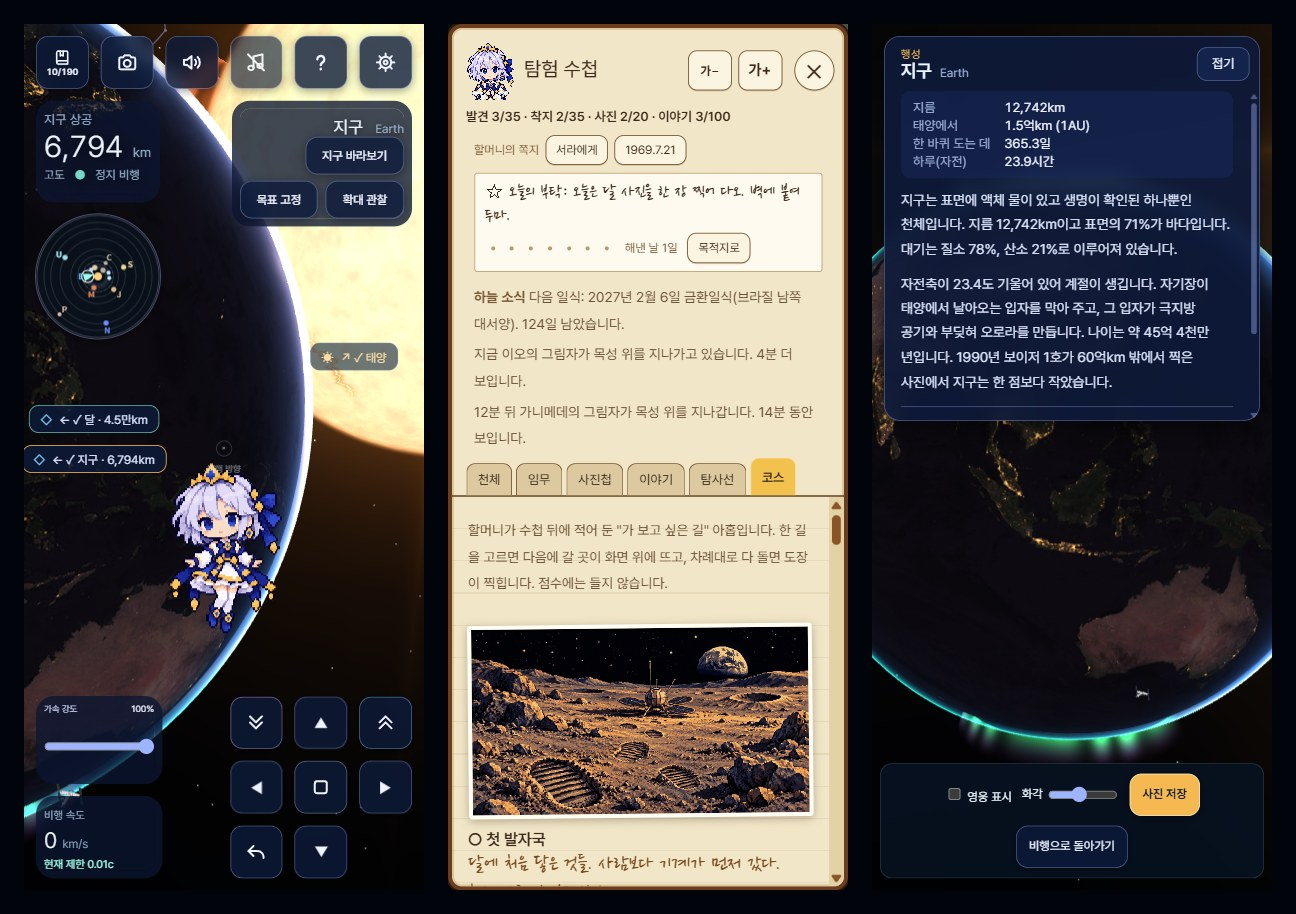
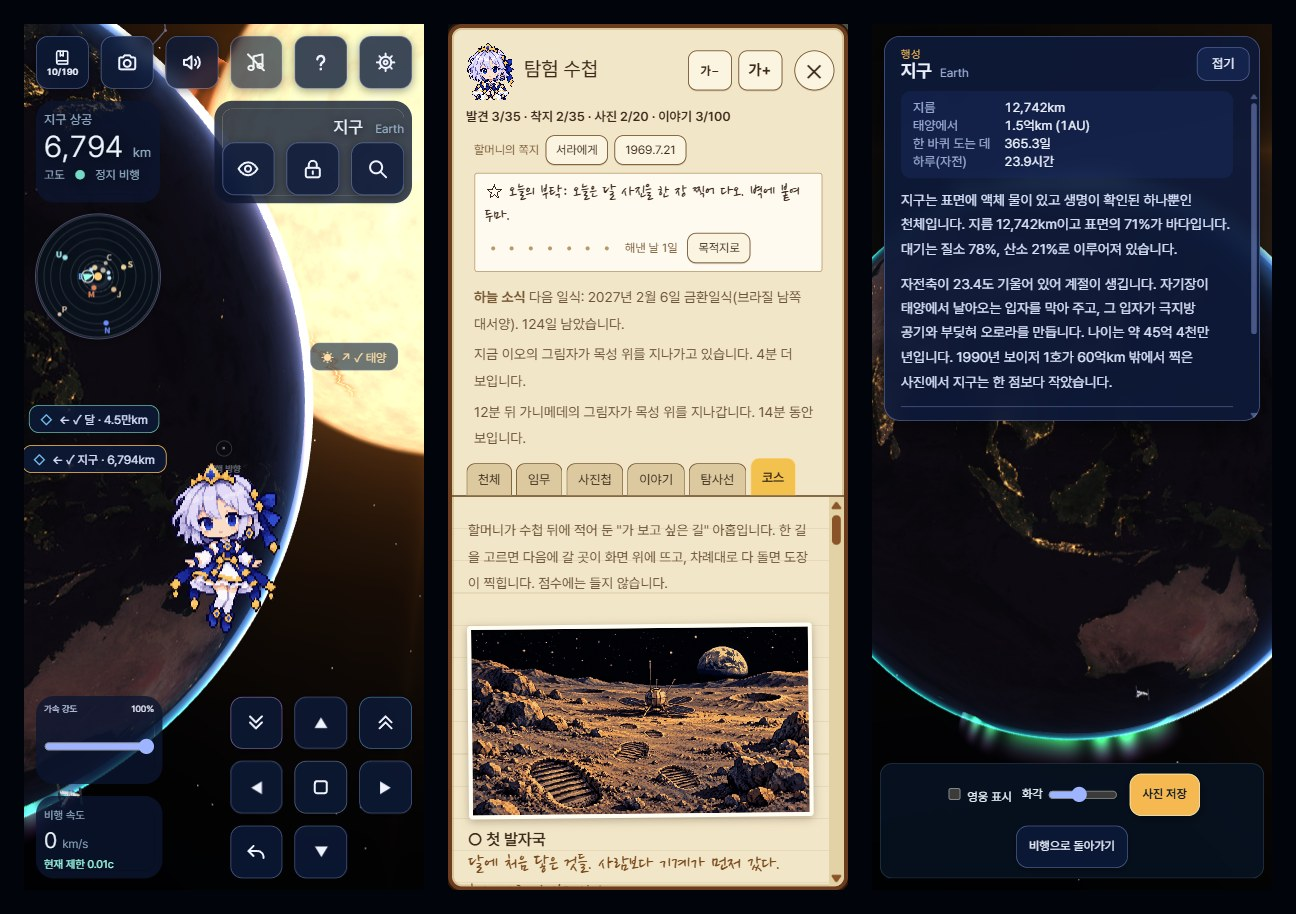
v0.1.109: the three things to do with the chosen target are picture buttons in one row (an eye, a padlock, a magnifying glass)

Changed region(s): [[0.1543, 0.0919, 0.3395, 0.2757]]

diff --git a/style.css b/style.css
@@ -3453,6 +3453,56 @@ footer .throttle .rangeLabels {
   background:#1c2f6ae6;
 }
 
+/* The three things to do with the chosen target are picture buttons in one row: an eye
+   (face it), a padlock (hold it in view), a magnifying glass (look at it closely). They
+   were three buttons of words in two rows, and the panel filled the corner of a phone's
+   screen (the user, 2026-10-05, picked this of three ways to make it smaller). The
+   words stay as each button's name and tip. On a phone they are as large as the other
+   buttons and stand as far apart. */
+#targetRow #faceTarget,
+#targetRow #lockTarget,
+#targetRow #inspectTarget {
+  display:inline-flex;
+  flex:none;
+  align-items:center;
+  justify-content:center;
+  gap:0;
+  width:var(--target-key, 44px);
+  height:var(--target-key, 44px);
+  min-height:0;
+  margin:0;
+  padding:0;
+  font-size:0;
+}
+
+#targetRow #faceTarget::before,
+#targetRow #lockTarget::before,
+#targetRow #inspectTarget::before {
+  content:"";
+  flex:none;
+  width:24px;
+  height:24px;
+  background:center / contain no-repeat;
+}
+
+#targetRow #faceTarget::before { background-image:url("/assets/ui/icon-face.svg"); }
+#targetRow #lockTarget::before { background-image:url("/assets/ui/icon-lock.svg"); }
+#targetRow #inspectTarget::before { background-image:url("/assets/ui/icon-inspect.svg"); }
+
+#targetRow #inspectTarget[hidden] {
+  display:none;
+}
+
+@media (max-width: 480px) {
+  #targetPanel {
+    --target-key:var(--top-key);
+  }
+
+  #targetPanel #targetRow {
+    gap:var(--gap);
+  }
+}
+
 /* The big map (a tap on the small one opens it): the map, every place by name under
    it, and what to do with the one picked. */
 #bigMap {

diff --git a/index.html b/index.html
@@ -60,10 +60,10 @@
       <span>선택한 천체</span>
       <strong id="targetName">지구 <small>Earth</small></strong>
       <p id="surfaceInfo">실제 표면까지 접근 가능</p>
-      <button id="faceTarget">지구 바라보기</button>
       <div id="targetRow">
-        <button id="lockTarget" aria-pressed="false" title="고른 곳을 화면 가운데에 붙잡아 둡니다">목표 고정</button>
-        <button id="inspectTarget">확대 관찰</button>
+        <button id="faceTarget" title="지구 바라보기">지구 바라보기</button>
+        <button id="lockTarget" aria-pressed="false" title="목표 고정: 고른 곳을 화면 가운데에 붙잡아 둡니다">목표 고정</button>
+        <button id="inspectTarget" title="확대 관찰">확대 관찰</button>
       </div>
       <button id="dockTarget" hidden>도킹</button>
       <button id="exoJump" hidden>케플러가 본 별로</button>

diff --git a/src/ui/hud.js b/src/ui/hud.js
@@ -66,6 +66,8 @@ export function createHud(bodies, { onSelect, onFace, onInspect, skyLabels = [] 
     showSelection(body) {
       $('targetName').innerHTML = `${body.name} <small>${body.nameEn}</small>`;
       $('faceTarget').textContent = `${body.name} 바라보기`;
+      // The button shows a picture only: its words are its name and its tip.
+      $('faceTarget').title = `${body.name} 바라보기`;
     },
     // goalId: the body the first-visit guide points at; its label always shows and pulses.
     // knownIds: a Set of what is in the journal (bodies found, craft met, places logged).

diff --git a/docs/Space-Oddity-상세기획서.md b/docs/Space-Oddity-상세기획서.md
@@ -1298,6 +1298,7 @@ build/art-order.sh <작업 폴더> <주문 글.txt> <받을 파일.png> [참고 
 - 위쪽 단추가 여섯이 되어 한 변이 `(화면 폭 − 12px × 7) ÷ 6` 으로 커졌다: 폭 400에서 43.4 → 52.7px, 360에서 37.7 → 46px. 간격은 그대로 12px다.
 - 잃는 것: 화면을 켜 둔 채 시간을 재는 묘기 비행을 잠깐 쉬려면 수첩이나 설정을 열어야 한다.
 - 단추의 차례(v0.1.107, 사용자가 정함): 수첩, 사진, 효과음, 배경 음악, 도움말, 설정. 전에는 효과음, 배경 음악, 도움말, 수첩, 사진, 설정이었다. 자주 쓰는 것이 왼쪽에 온다.
+- 목적지 칸의 그림 단추(v0.1.109): 사용자가 오른쪽 위의 목적지 칸을 가리키며 "이건 왜 만들어놓은거였지?"라고 물었다. 고른 곳의 이름과 그곳에 할 수 있는 일(바라보기, 목표 고정, 확대 관찰, 때에 따라 도킹·그날로·일식 자리로)을 모은 자리라고 답하고 줄이는 길 셋을 보이자 둘째(그림 단추 한 줄)를 골랐다. 글 단추 셋이 두 줄이던 것이 그림 단추 셋 한 줄이 되었다: 눈(바라보기), 자물쇠(목표 고정, 켜면 금색 선), 돋보기(확대 관찰). 글은 단추의 이름과 도움말로 남는다. 휴대전화에서는 다른 단추와 같은 크기(`--top-key`)에 12px 간격이고, 칸의 높이가 왼쪽 고도 받침과 같아졌다. 넓은 화면에서는 44px이다. 도킹 같은 그 밖의 단추는 전처럼 글 단추로 그 아래에 생긴다.
 - 아래쪽 단추의 크기(v0.1.108, 사용자: "화면 아래 아이콘도 윗쪽 버튼만큼 키워줘"): 아래쪽 단추 여덟도 위쪽 단추와 같은 크기(`--top-key`)다. 폭 400에서 44 → 52.7px, 360에서 40 → 46px, 430에서 57.7px. 간격과 가장자리 여백은 그대로 12px이고, 왼쪽의 두 받침도 그만큼 높아져 단추 묶음과 높이가 같다.
 
 #### 가속 강도 막대를 아주 작게 (2026-10-05, v0.1.92)
@@ -1367,7 +1368,7 @@ build/art-order.sh <작업 폴더> <주문 글.txt> <받을 파일.png> [참고 
 지금 모습:
 
 - 단추(위쪽 여섯, 목적지 단추, 전진·후진·정지, 안내 줄, 사진 모드): 남색 유리(`#0d1a3acc`, 뒤가 8px 흐려짐)에 1px 연보라 선(`#9fb4ff66`), 모서리 12px 둥글림, 옅은 그림자. 누르는 동안과 멈춘 동안의 일시 정지 단추는 금색 선(`#f6b951`). 사진 저장 단추만 금색 바탕에 어두운 글자다.
-- 아이콘 14장(`public/assets/ui/icon-*.svg`. 2026-10-04에 설정의 톱니가 더해졌다): 24×24 틀에 굵기 2의 둥근 선으로 그린 그림이다(확성기, 확성기와 가위표, 음표, 음표와 빗금, 물음표, 멈춤, 재생, 수첩, 카메라, 그리고 2026-10-03에 더한 아래 단추의 넷: 굽은 화살표(뒤 보기), 아래 겹꺾쇠(후진), 네모(정지), 위 겹꺾쇠(전진)). 선 그림이라 어느 크기에서도 매끈하다. 위쪽 단추 일곱과 아래 단추 넷에 쓰고, 단추의 글은 화면 읽기 프로그램용 이름으로 남는다. 수첩 단추만 아이콘 옆에 "15/190"이 보인다.
+- 아이콘 17장(`public/assets/ui/icon-*.svg`. 2026-10-04에 설정의 톱니가, 2026-10-05에 눈·자물쇠·돋보기가 더해졌다): 24×24 틀에 굵기 2의 둥근 선으로 그린 그림이다(확성기, 확성기와 가위표, 음표, 음표와 빗금, 물음표, 멈춤, 재생, 수첩, 카메라, 그리고 2026-10-03에 더한 아래 단추의 넷: 굽은 화살표(뒤 보기), 아래 겹꺾쇠(후진), 네모(정지), 위 겹꺾쇠(전진)). 선 그림이라 어느 크기에서도 매끈하다. 위쪽 단추 일곱과 아래 단추 넷에 쓰고, 단추의 글은 화면 읽기 프로그램용 이름으로 남는다. 수첩 단추만 아이콘 옆에 "15/190"이 보인다.
 - 위쪽 단추는 44×44이고, 휴대전화에서는 제목을 숨기고 여섯이 한 줄을 채운다.
 - 이름표: 더 옅은 유리(`#0d1a3a99`)에 옅은 선, 모서리 10px. 고른 목적지와 안내의 목표는 금색 선.
 - 알림 줄은 같은 유리, 안내 줄은 금색 선. 말풍선은 둥근 크림색 종이에 작은 꼬리다.

diff --git a/README.md b/README.md
@@ -71,7 +71,7 @@
 
 - 화면 드래그: 방향 전환
 - 오른쪽 아래의 단추 여덟(세 줄): 가운데가 정지, 그 위·아래·왼쪽·오른쪽이 이동 단추로 누르는 동안 그쪽으로 미끄러진다. 맨 위 줄 왼쪽이 후진, 오른쪽이 전진, 맨 아래 줄 왼쪽이 뒤 보기다
-- 이름표를 누르면 그것을 고른다. "바라보기"는 그쪽으로 돌고, "목표 고정"은 화면에 붙잡아 두고, "확대 관찰"은 가까이에서 돌려 보며 읽을거리를 띄운다
+- 이름표를 누르면 그것을 고른다. 오른쪽 위 칸의 그림 단추 셋: 눈(바라보기)은 그쪽으로 돌고, 자물쇠(목표 고정)는 화면에 붙잡아 두고, 돋보기(확대 관찰)는 가까이에서 돌려 보며 읽을거리를 띄운다
 - 미니맵을 누르면 큰 지도가 열려 갈 곳을 고르고 순간 이동한다
 - 위쪽 단추 여섯: 수첩, 사진, 효과음, 배경 음악, 도움말, 설정. 수첩이나 설정을 열거나 다른 앱으로 가면 게임이 저절로 멈춘다
 
@@ -115,7 +115,7 @@ npm test
 
 정확한 문구는 [LICENSE](LICENSE), 파일마다의 출처는 [THIRD-PARTY.md](THIRD-PARTY.md) 에 있다.
 
-- **코드와 화면 아이콘 14장**: MIT 라이선스.
+- **코드와 화면 아이콘 17장**: MIT 라이선스.
 - **권리 보유 (MIT에서 제외)**: 캐릭터 서라와 그 그림, 이야기 그림, 불러오는 화면 그림, 독도와 와디럼 그림, 따라다니는 것, 앱 아이콘, 제목 글씨, 게임 이름 "Space Oddity — 할머니의 수첩". 허락 없이 복사하거나 자기 작품에 쓸 수 없다. 이 코드를 가져다 쓰는 사람은 이것들을 자기 것으로 바꿔야 한다.
 - **외부 자료 (MIT에서 제외)**: 각자의 조건을 따른다.
   - 천체 지도: NASA·USGS 지도는 저작권이 없고, Solar System Scope 지도는 CC BY 4.0이다.
